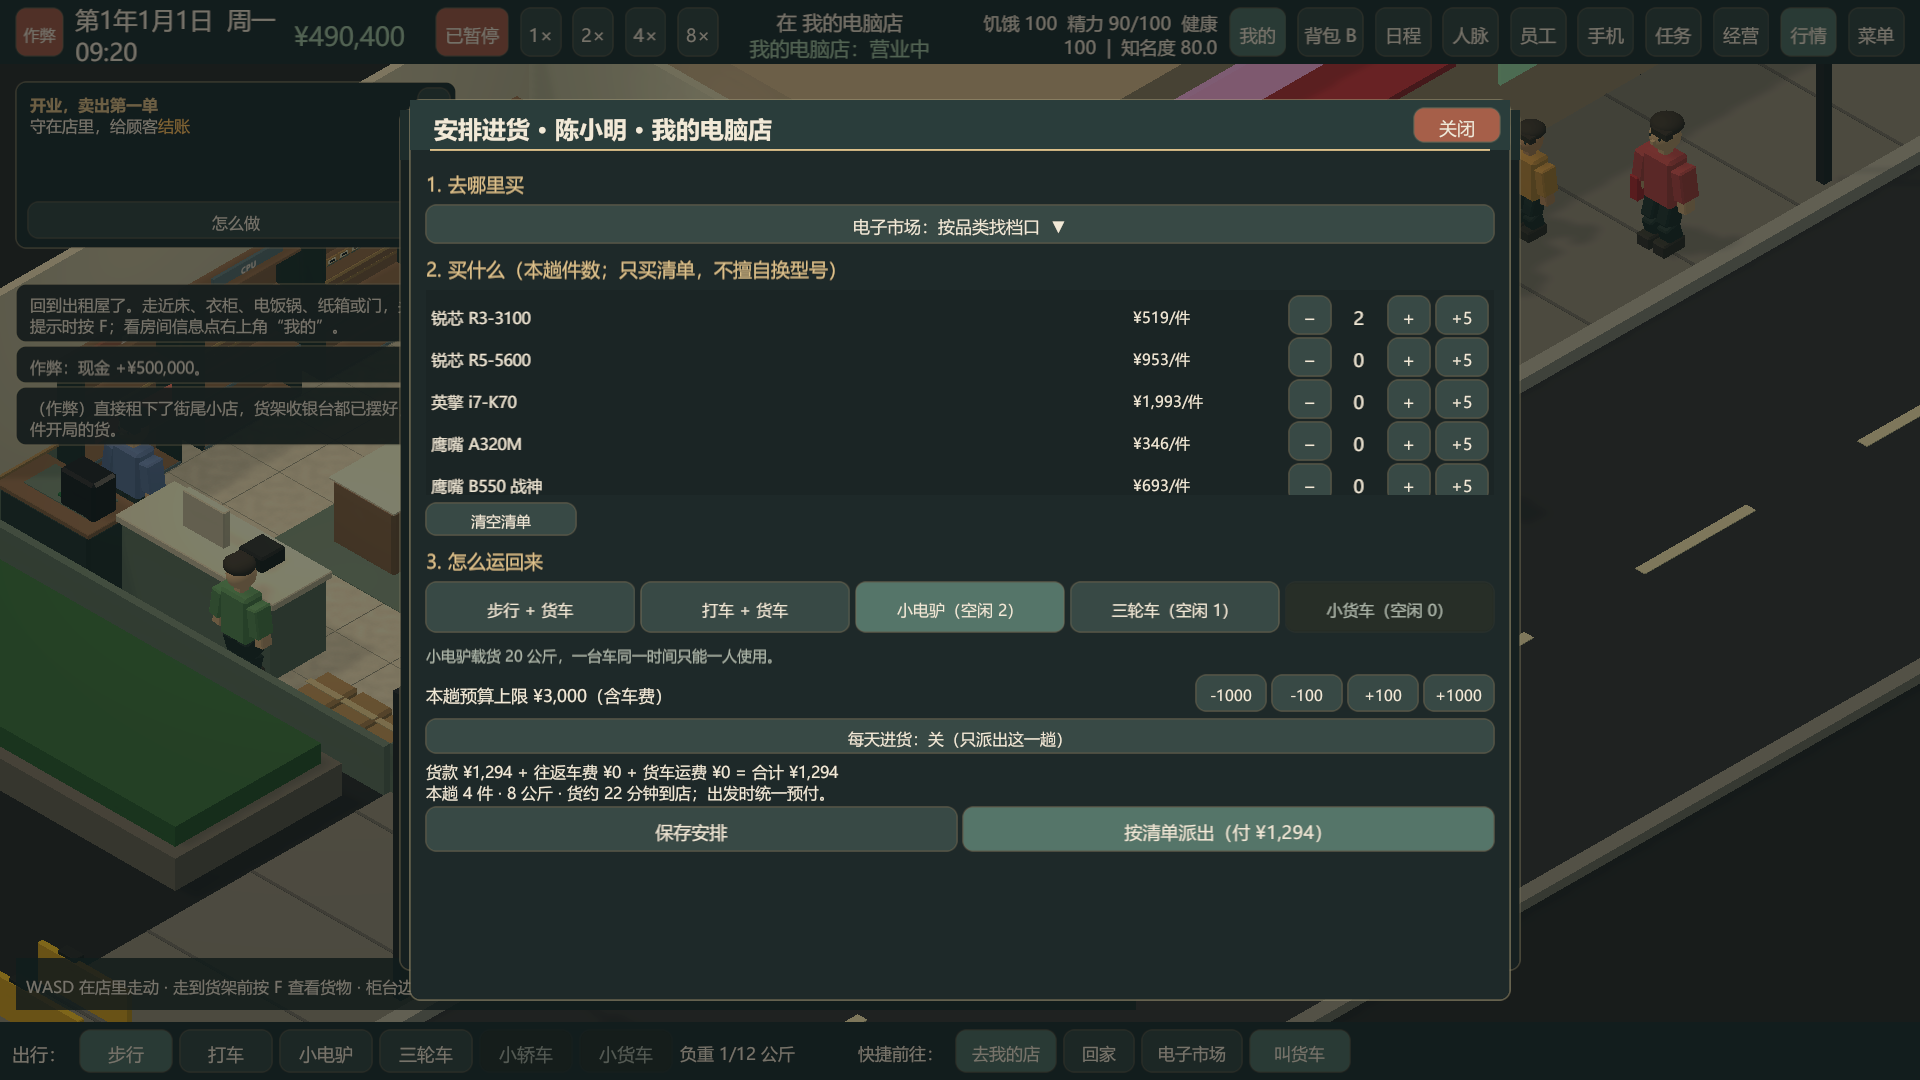
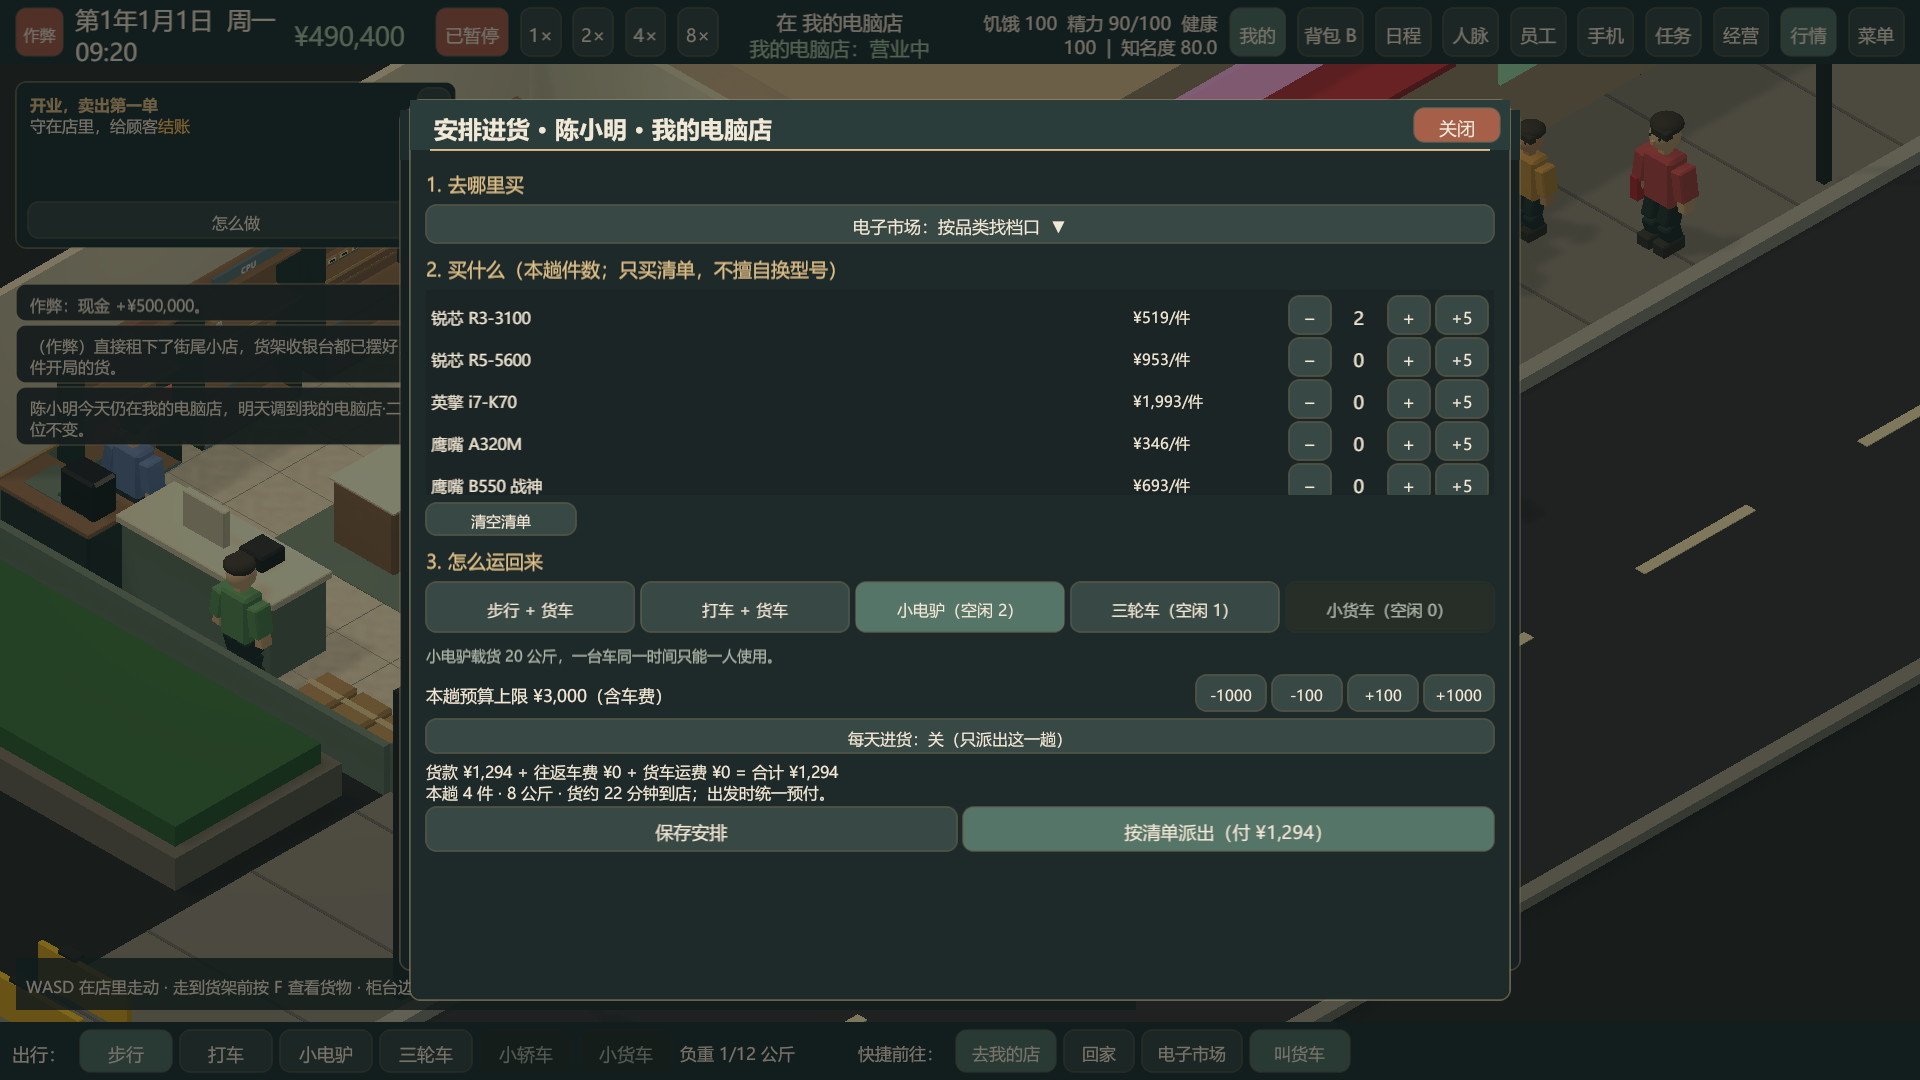
补充员工调店提交结果和采购档口选择的实机验收截图

Changed region(s): [[0.0, 0.275, 0.2188, 0.4278]]

diff --git a/Assets/Editor/GameSceneBuilder.Workforce.cs b/Assets/Editor/GameSceneBuilder.Workforce.cs
@@ -62,12 +62,19 @@ namespace PCShopSell.EditorTools
             Shot("vs1_employees_list");
             ClickGuideButton("安排明天调店");
             Shot("vs1_employees_transfer");
+            ClickGuideButton($"{s.ShopTitle(s.ShopAt(second.Id))}（{second.Name}）\n安排明天到这里上班");
+            Check(s.FindEmployee(buyer.Id).Shop.Place.Id == mainId && buyer.TransferShopId == second.Id,
+                "调店安排提交后今天留在原店，明天去目标店");
+            Shot("vs1_employees_transfer_scheduled");
             _game.Ui.CloseModalWindows();
             _game.Ui.OpenEmployeesPanel();
             ClickGuideButton("安排进货");
             Frame(0);
             Shot("vs1_employees_purchase");
             Shot("vs1_employees_purchase_720", 1280, 720);
+            ClickGuideButton("电子市场：按品类找档口  ▼");
+            Shot("vs1_employees_source");
+            _game.Ui.CloseTopWindow();
             var dispatch = _game.Ui.Canvases.SelectMany(c => c.GetComponentsInChildren<UnityEngine.UI.Button>())
                 .Last(b => b.GetComponentInChildren<UnityEngine.UI.Text>()?.text.StartsWith("按清单派出（付") == true);
             Check(dispatch.interactable, "员工验收：采购派出按钮可点击");

diff --git a/docs/13-employees-and-procurement.md b/docs/13-employees-and-procurement.md
@@ -83,6 +83,8 @@
 
 - [员工列表](previews/vs1_employees_list.png)
 - [次日调店](previews/vs1_employees_transfer.png)
+- [调店安排提交后：今天留原店、明天去二店](previews/vs1_employees_transfer_scheduled.png)
+- [选择进货源/指定档口](previews/vs1_employees_source.png)
 - [采购单](previews/vs1_employees_purchase.png) / [1280×720](previews/vs1_employees_purchase_720.png)
 - [车辆与占用](previews/vs1_employees_fleet.png)
 - [叫货车](previews/vs1_employees_freight.png)
